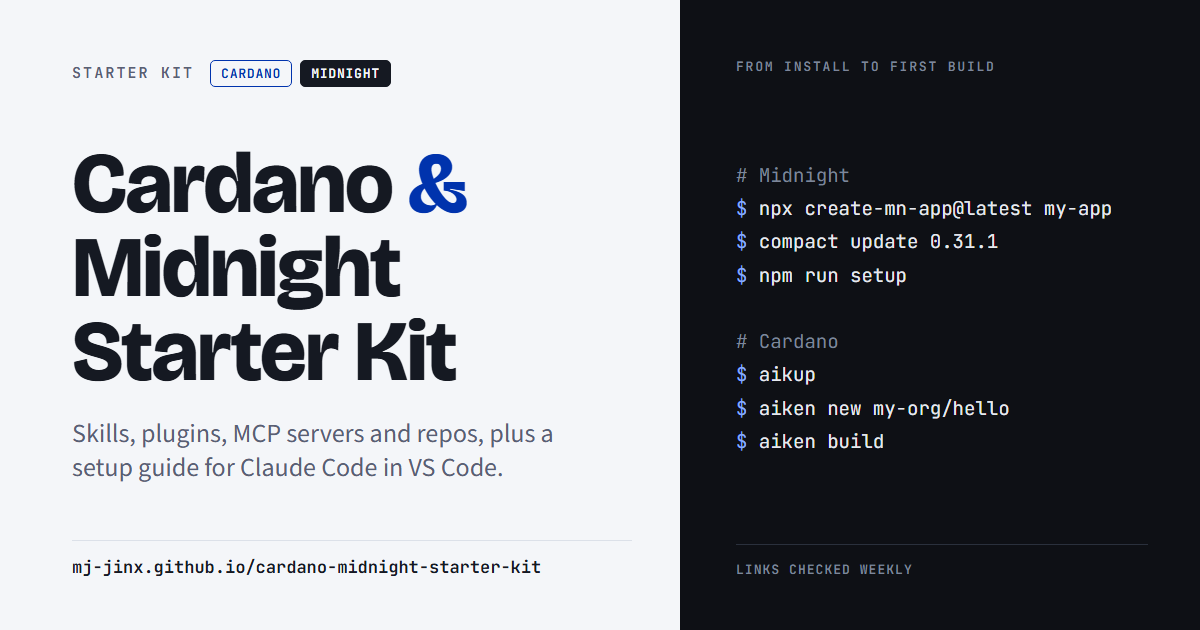
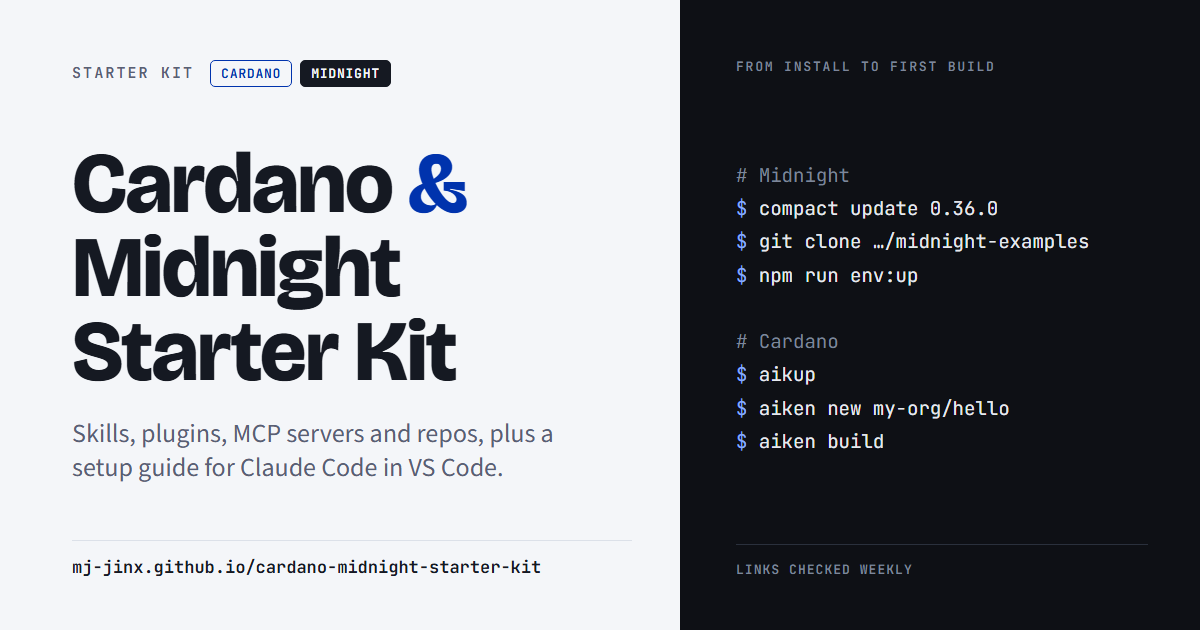
Update for Midnight ledger 9 and refresh the catalog
Setup guide:
- Compact compiler 0.31.1 -> 0.36.0 (language 0.28) and proof server
  8.1.3 -> 9.0.0, per the support matrix (all networks on ledger 9)
- Replace archived create-mn-app with the midnight-examples hello-world
  flow; update the learning path (private-party, midnight-leaderboard)
- npm 11 instead of corepack/Yarn; install compact-cli-dev plugin
- Preprod faucet moved to midnight-tmnight-preprod.nethermind.dev
- Note the Preview relaunch and Preprod upgrade; Blockfrost covers
  RPC and indexer; preprod sync time per the examples README
- cf-review-contract -> /cardano-dev-skills:review-contract
- Banner regenerated with the new commands

Catalog:
- create-mn-app marked archived and dropped from Start here
- nel349/midnight-wallet-cli renamed to kuiralabs/midnight-cli
- Remove ODATANO/ASTRA and thirdbase1/veilpay (404 since early Nov)
- cardano-dev-skills now has 19 skills; midnight-examples path updated
- Stars, last-push months and archived flags refreshed

Changed region(s): [[0.6167, 0.3016, 0.925, 0.3921], [0.7092, 0.4222, 0.7708, 0.4524]]

diff --git a/index.html b/index.html
@@ -289,7 +289,7 @@ code .</pre></div>
       <h3>Install Node 22 and the Claude Code CLI inside WSL</h3>
       <p>Install <a href="https://github.com/nvm-sh/nvm" target="_blank" rel="noopener">nvm</a> using the install line from its README, then:</p>
       <div class="code"><pre>nvm install 22
-corepack enable          <span class="c"># gives you Yarn 4 for the official examples</span>
+npm install -g npm@11    <span class="c"># the official examples need npm 11.10 or newer</span>
 curl -fsSL https://claude.ai/install.sh | bash
 claude --version</pre></div>
       <p class="note">Install guide: <a href="https://code.claude.com/docs/en/setup" target="_blank" rel="noopener">code.claude.com/docs/en/setup</a>.</p>
@@ -299,19 +299,19 @@ claude --version</pre></div>
       <h3>Install the Compact toolchain (Midnight)</h3>
       <div class="code"><pre>curl --proto '=https' --tlsv1.2 -LsSf https://github.com/midnightntwrk/compact/releases/latest/download/compact-installer.sh | sh
 <span class="c"># restart the terminal, then pin the compiler version from the support matrix</span>
-compact update 0.31.1
+compact update 0.36.0
 compact compile --version</pre></div>
-      <p class="note">As of 25 Oct 2026, 0.31.1 is both the version in the docs example and the one the official examples pin. Check the <a href="https://docs.midnight.network/relnotes/support-matrix" target="_blank" rel="noopener">support matrix</a> first. A bare <code>compact update</code> takes the newest release, which can be ahead of the public networks.</p>
+      <p class="note">As of 11 Nov 2026, 0.36.0 (Compact language 0.28) is the compiler the support matrix lists for Preview, Preprod and Mainnet, which all run ledger 9. The official examples pin the same version. Check the <a href="https://docs.midnight.network/relnotes/support-matrix" target="_blank" rel="noopener">support matrix</a> first. A bare <code>compact update</code> takes the newest release, which can be ahead of the public networks.</p>
       <p class="note warn"><code>compact compile +&lt;version&gt;</code> only <em>selects</em> a version you already have. Run <code>compact update &lt;version&gt;</code> first, or the build fails on a clean machine.</p>
     </div></li>
 
     <li><div class="step-body">
       <h3>Run a local proof server (Docker)</h3>
-      <div class="code"><pre>docker run -p 6300:6300 midnightntwrk/proof-server:8.1.3</pre></div>
+      <div class="code"><pre>docker run -p 6300:6300 midnightntwrk/proof-server:9.0.0</pre></div>
       <ul>
-        <li>The tag is the one the docs list today. Match it to the support matrix.</li>
+        <li>9.0.0 is the ledger 9 proof server that the docs and the support matrix list today. Match the tag to the support matrix.</li>
         <li>In the Lace wallet, go to Settings › Midnight and choose <code>Local (http://localhost:6300)</code>.</li>
-        <li>The <code>create-mn-app</code> and <code>midnight-examples</code> projects start their own proof server with Docker Compose. You only need this one for wallets and the public networks.</li>
+        <li>The <code>midnight-examples</code> projects start their own proof server with Docker Compose. You only need this one for wallets and the public networks.</li>
       </ul>
     </div></li>
 
@@ -333,7 +333,8 @@ claude plugin install --scope user compact-examples@midnight-expert
 claude plugin install --scope user midnight-dapp-dev@midnight-expert
 claude plugin install --scope user midnight-verify@midnight-expert
 claude plugin install --scope user midnight-tooling@midnight-expert
-claude plugin install --scope user midnight-wallet@midnight-expert</pre></div>
+claude plugin install --scope user midnight-wallet@midnight-expert
+claude plugin install --scope user compact-cli-dev@midnight-expert</pre></div>
       <p>Restart Claude Code, then run <code>/midnight-expert:doctor</code> to check the environment.</p>
       <p><b>Edda Labs Midnight plugin:</b></p>
       <div class="code"><pre>claude plugin marketplace add eddalabs/edda-marketplace
@@ -367,26 +368,32 @@ claude mcp list</pre></div>
     <li><div class="step-body">
       <h3>Set up wallets and get test funds</h3>
       <ul>
-        <li><b>Midnight:</b> install <a href="https://www.lace.io" target="_blank" rel="noopener">Lace</a> (Midnight enabled) or the <a href="https://1am.xyz" target="_blank" rel="noopener">1AM wallet</a>. Get tNIGHT from the <a href="https://faucet.preprod.midnight.network/" target="_blank" rel="noopener">Preprod faucet</a> or the <a href="https://faucet.preview.midnight.network/" target="_blank" rel="noopener">Preview faucet</a>. Fees are paid in DUST, which accrues from NIGHT you hold.</li>
-        <li><b>Midnight endpoints:</b> Preview has public Midnight-hosted endpoints. Preprod and Mainnet RPC go through Blockfrost and need a token from a "Midnight Preprod" (or Mainnet) project on <a href="https://blockfrost.io" target="_blank" rel="noopener">blockfrost.io</a>.</li>
+        <li><b>Midnight:</b> install <a href="https://www.lace.io" target="_blank" rel="noopener">Lace</a> (Midnight enabled) or the <a href="https://1am.xyz" target="_blank" rel="noopener">1AM wallet</a>. Get tNIGHT from the <a href="https://midnight-tmnight-preprod.nethermind.dev/" target="_blank" rel="noopener">Preprod faucet</a> or the <a href="https://faucet.preview.midnight.network/" target="_blank" rel="noopener">Preview faucet</a>. Fees are paid in DUST, which accrues from NIGHT you hold.</li>
+        <li><b>Midnight endpoints:</b> Preview has public Midnight-hosted endpoints. Preprod and Mainnet RPC and indexer go through Blockfrost and need a token from a "Midnight Preprod" (or Mainnet) project on <a href="https://blockfrost.io" target="_blank" rel="noopener">blockfrost.io</a>.</li>
+        <li><b>Ledger 9 upgrade:</b> Preview was relaunched as a new ledger 9 chain on 7 Nov 2026, so contracts deployed there earlier are gone. Preprod upgraded in place on 9 Nov 2026. Wallet SDK 1.x can't transact on either.</li>
         <li><b>Cardano:</b> set Lace or Eternl to Preprod, get test ADA from the <a href="https://docs.cardano.org/cardano-testnets/tools/faucet" target="_blank" rel="noopener">testnet faucet</a>, and create a free Cardano Preprod project key on Blockfrost, or use <a href="https://koios.rest" target="_blank" rel="noopener">Koios</a>.</li>
       </ul>
-      <p class="note">A brand-new wallet on Midnight Preprod takes about 78 minutes to sync to the chain tip, according to the official examples README. Start on the local devnet.</p>
+      <p class="note">A brand-new wallet on Midnight Preprod takes well over an hour to sync from genesis (one run took 88 minutes), according to the official examples README. Start on the local devnet.</p>
     </div></li>
 
     <li><div class="step-body">
       <h3>Build something</h3>
-      <p><b>Midnight</b>: scaffold, then follow the official learning path. Run this in WSL:</p>
-      <div class="code"><pre>npx create-mn-app@latest my-app
-cd my-app
-npm run setup            <span class="c"># local devnet + compile + deploy; no wallet or faucet needed</span></pre></div>
-      <p>Next, work through <a href="https://github.com/midnightntwrk/midnight-examples" target="_blank" rel="noopener">midnight-examples</a> in order: hello-world, private-bid, battleship, private-tip-jar, shielded-chips, then zk-loan.</p>
+      <p><b>Midnight</b>: clone the official examples and run hello-world on a local network. Run this in WSL:</p>
+      <div class="code"><pre>git clone https://github.com/midnightntwrk/midnight-examples
+cd midnight-examples
+npm install &amp;&amp; npm run compile
+cd examples/hello-world
+npm run env:up           <span class="c"># local Midnight network in Docker; no wallet or faucet needed</span>
+npm run wait:dust
+npm run test:local
+npm run env:down</pre></div>
+      <p>Next, work through the <a href="https://github.com/midnightntwrk/midnight-examples#learning-path" target="_blank" rel="noopener">learning path</a> in order: hello-world, private-party, battleship, private-tip-jar, shielded-chips, zk-loan, then midnight-leaderboard to deploy a DApp to Vercel. The old <code>create-mn-app</code> scaffolder is archived. Its successor, <code>mnkit</code>, is in pre-release.</p>
       <p><b>Cardano</b>: an Aiken validator, plus MeshJS for off-chain transaction building:</p>
       <div class="code"><pre>aiken new my-org/hello
 cd hello
 aiken check &amp;&amp; aiken build   <span class="c"># writes plutus.json, the contract blueprint</span>
 npm install @meshsdk/core</pre></div>
-      <p><b>Try these in Claude Code:</b> <code>/midnight-dapp-dev:init</code>, <code>/compact-cli-dev:init</code>, <code>/midnight-tooling:devnet</code>, <code>/compact-core:review-compact</code>, <code>/compact-core:audit-compact</code>, and the <code>cf-review-contract</code> skill for Aiken validators.</p>
+      <p><b>Try these in Claude Code:</b> <code>/midnight-dapp-dev:init</code>, <code>/compact-cli-dev:init</code>, <code>/midnight-tooling:devnet</code>, <code>/compact-core:review-compact</code>, <code>/compact-core:audit-compact</code>, and <code>/cardano-dev-skills:review-contract</code> for Aiken validators.</p>
     </div></li>
   </ol>
 </section>
@@ -394,7 +401,7 @@ npm install @meshsdk/core</pre></div>
 <section id="watch">
   <h2>Watch-outs</h2>
   <ul class="watch">
-    <li><strong>Old tutorials point at archived repos.</strong><code>example-counter</code> and <code>midnight-local-dev</code> are archived. Use <code>create-mn-app</code> and <code>midnight-examples</code> instead. Today the official examples pin Compact language 0.23, compiler 0.31.1, and midnight-js 4.1.1.</li>
+    <li><strong>Old tutorials point at archived repos.</strong><code>example-counter</code>, <code>midnight-local-dev</code> and <code>create-mn-app</code> are archived. Use <code>midnight-examples</code> instead. Today the official examples pin Compact language 0.28, compiler 0.36.0, midnight-js 5.0.0 and wallet SDK 2.0.0. Code written for ledger 8 (compiler 0.31 or older, wallet SDK 1.x) needs updating.</li>
     <li><strong>A successful <code>compact</code> run on Windows proves nothing.</strong>It's the NTFS tool, and it exits 0. Run <code>which compact</code> inside WSL to confirm you're using the real one.</li>
     <li><strong>Pin compiler versions explicitly.</strong>Run <code>compact update &lt;v&gt;</code> before <code>compact compile +&lt;v&gt;</code>, and match the support matrix, not the newest release.</li>
     <li><strong>The cardano-dev-skills plugin bundles a lot of third-party documentation.</strong>Its own supply-chain notes list prompt injection through those docs as a risk. You can copy only the skills you need.</li>

diff --git a/assets/banner-source.html b/assets/banner-source.html
@@ -72,9 +72,9 @@ h1 .amp { color: var(--cardano); font-weight: 700; }
   <div class="right">
     <div class="label">From install to first build</div>
 <pre class="term"><span class="c"># Midnight</span>
-<span class="p">$</span> npx create-mn-app@latest my-app
-<span class="p">$</span> compact update 0.31.1
-<span class="p">$</span> npm run setup
+<span class="p">$</span> compact update 0.36.0
+<span class="p">$</span> git clone …/midnight-examples
+<span class="p">$</span> npm run env:up
 
 <span class="c"># Cardano</span>
 <span class="p">$</span> aikup
